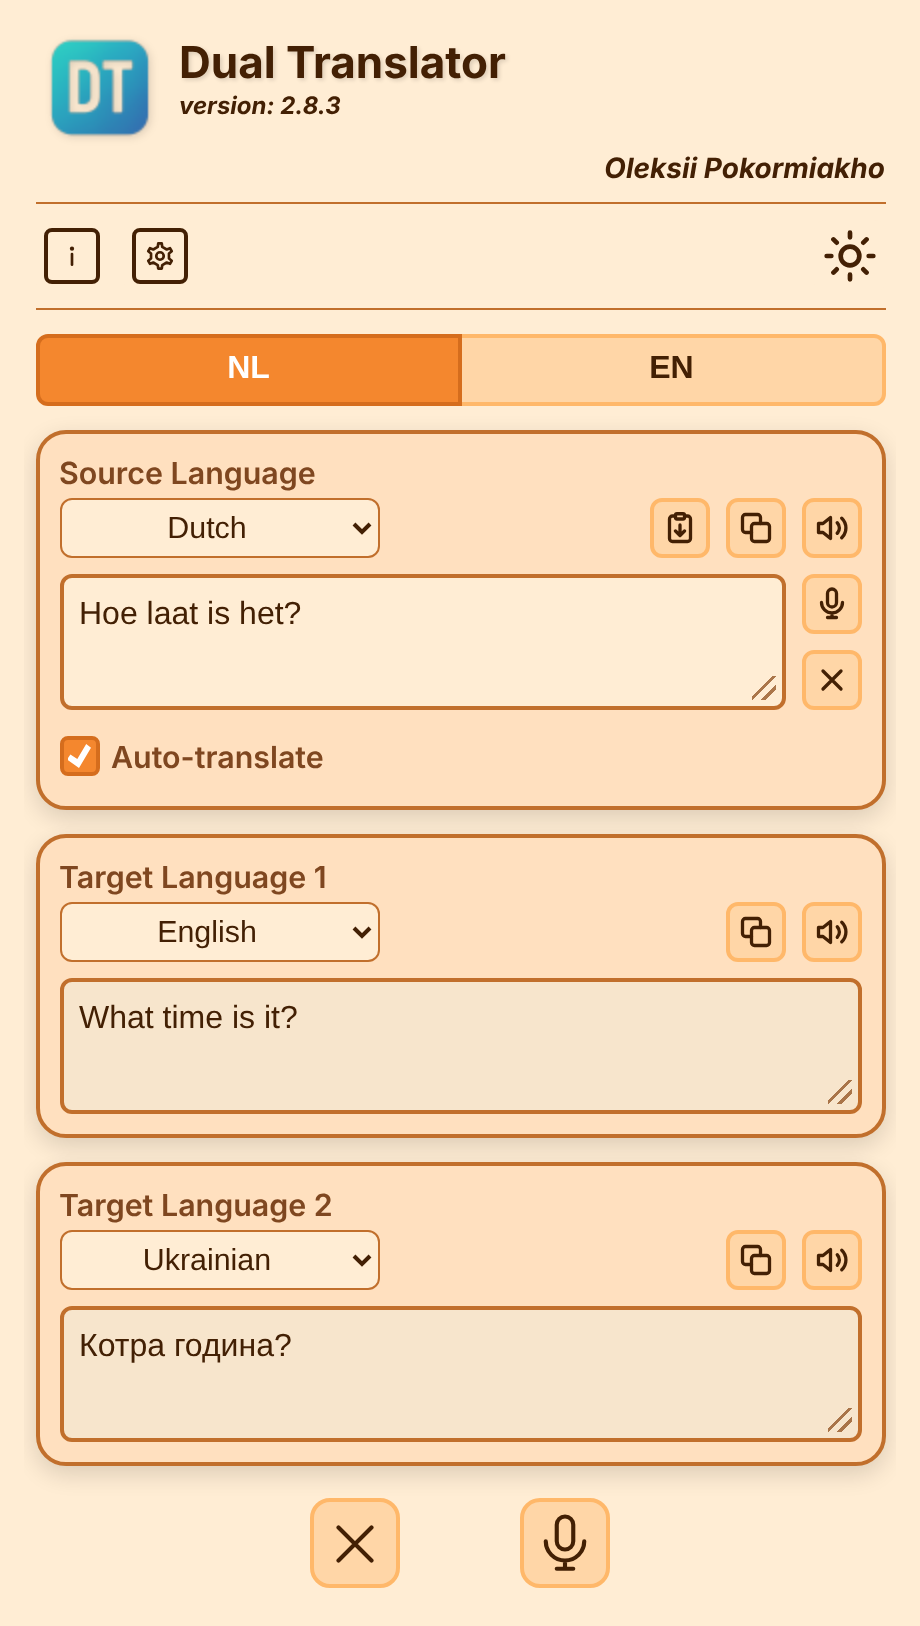
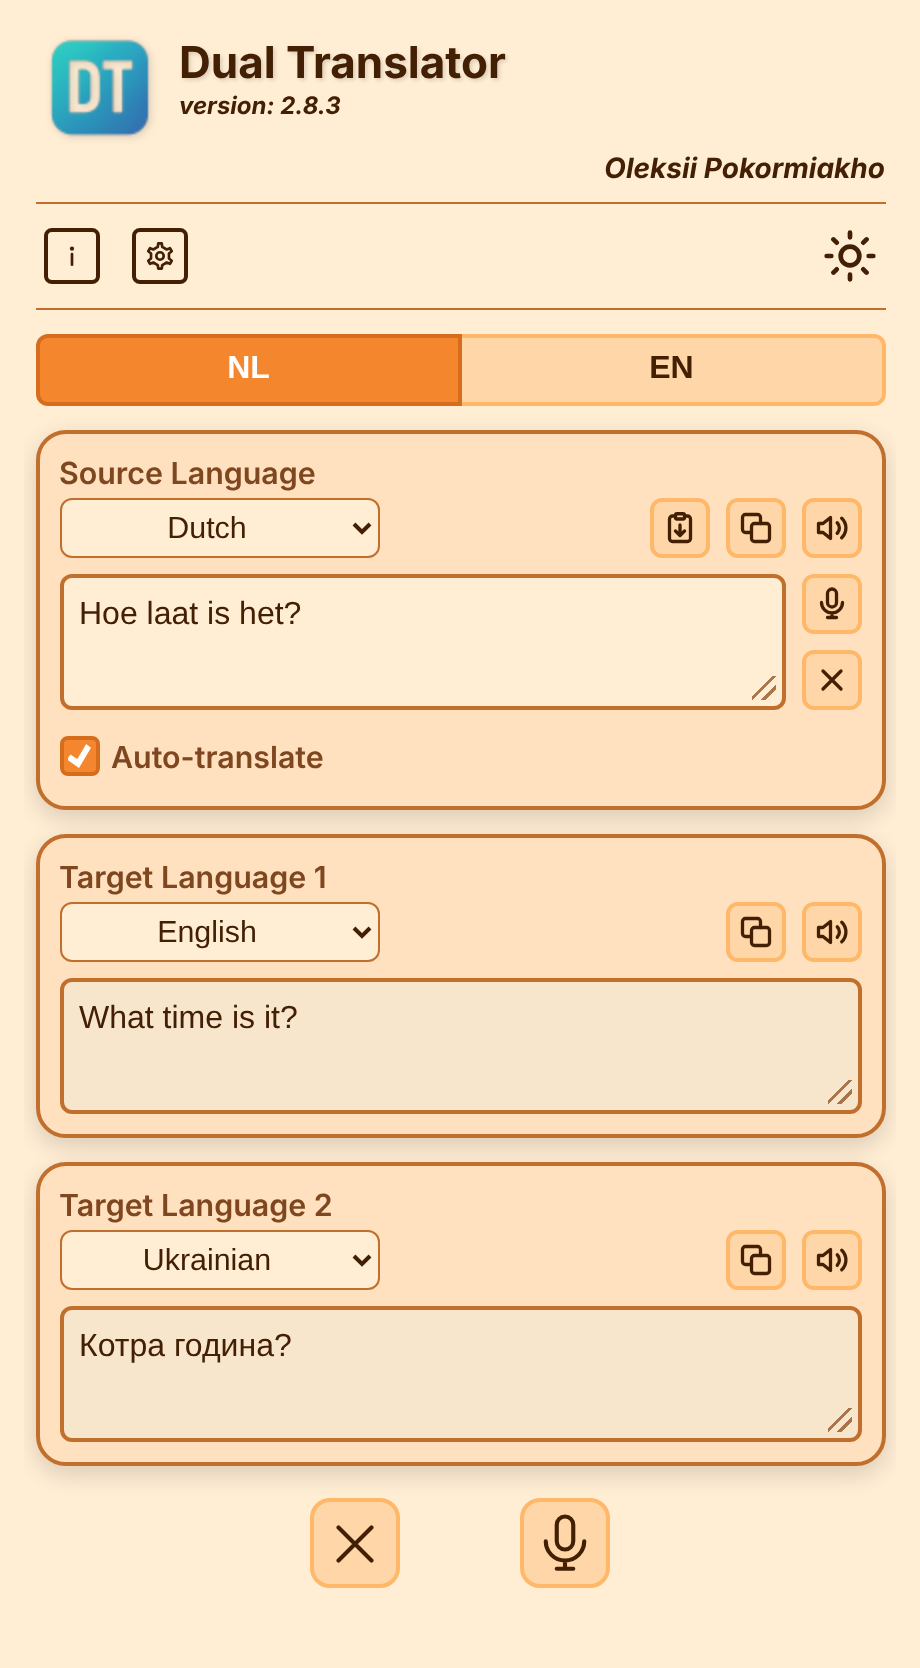
2.8.4

diff --git a/src/js/core/config.js b/src/js/core/config.js
@@ -1,7 +1,7 @@
 // Constants and the default settings (config/config.json).
 
 // Shown on the main screen (change it with every change of the app)
-export const APP_VERSION = "2.8.3";
+export const APP_VERSION = "2.8.4";
 
 // Key of the saved settings in localStorage
 export const STORAGE_KEY = "DT-settings";

diff --git a/docs/readme/README.uk.md b/docs/readme/README.uk.md
@@ -8,7 +8,7 @@
 Це компактний односторінковий застосунок, який перекладає текст одразу двома мовами.  
 Введіть, вставте або надиктуйте текст один раз і читайте, копіюйте чи слухайте обидва переклади поруч.
 
-![Зовнішній вигляд застосунку](img/app.png)
+<img src="img/app.png" alt="Зовнішній вигляд застосунку" width="360">
 
 ## Можливості
 
@@ -22,7 +22,7 @@
 
 У вікні налаштувань є конфігурації (мови й видимі кнопки для кожної вкладки), мова інтерфейсу, тема й режим, а також скидання до типових значень.
 
-![Вікно налаштувань](img/settings.png)
+<img src="img/settings.png" alt="Вікно налаштувань" width="360">
 
 ## Швидкий старт
 

diff --git a/docs/readme/README.ru.md b/docs/readme/README.ru.md
@@ -8,7 +8,7 @@
 Это компактное одностраничное приложение, которое переводит текст сразу на два языка.  
 Введите, вставьте или продиктуйте текст один раз и читайте, копируйте или слушайте оба перевода рядом.
 
-![Внешний вид приложения](img/app.png)
+<img src="img/app.png" alt="Внешний вид приложения" width="360">
 
 ## Возможности
 
@@ -22,7 +22,7 @@
 
 В окне настроек находятся конфигурации (языки и видимые кнопки для каждой вкладки), язык интерфейса, тема и режим, а также сброс к значениям по умолчанию.
 
-![Окно настроек](img/settings.png)
+<img src="img/settings.png" alt="Окно настроек" width="360">
 
 ## Быстрый старт
 

diff --git a/docs/readme/README.it.md b/docs/readme/README.it.md
@@ -8,7 +8,7 @@
 Questa è un'applicazione compatta a pagina singola che traduce il testo in due lingue contemporaneamente.  
 Scrivi, incolla o detta il testo una sola volta e leggi, copia o ascolta entrambe le traduzioni una accanto all'altra.
 
-![Aspetto dell'applicazione](img/app.png)
+<img src="img/app.png" alt="Aspetto dell'applicazione" width="360">
 
 ## Funzionalità
 
@@ -22,7 +22,7 @@ Scrivi, incolla o detta il testo una sola volta e leggi, copia o ascolta entramb
 
 La finestra delle impostazioni contiene le configurazioni (lingue e pulsanti visibili di ogni scheda), la lingua dell’interfaccia, il tema e la modalità e il ripristino dei valori predefiniti.
 
-![Finestra delle impostazioni](img/settings.png)
+<img src="img/settings.png" alt="Finestra delle impostazioni" width="360">
 
 ## Per iniziare
 

diff --git a/docs/readme/README.fr.md b/docs/readme/README.fr.md
@@ -8,7 +8,7 @@
 Il s'agit d'une application compacte d'une seule page qui traduit un texte dans deux langues à la fois.  
 Saisissez, collez ou dictez le texte une seule fois, puis lisez, copiez ou écoutez les deux traductions côte à côte.
 
-![Aperçu de l'application](img/app.png)
+<img src="img/app.png" alt="Aperçu de l'application" width="360">
 
 ## Fonctionnalités
 
@@ -22,7 +22,7 @@ Saisissez, collez ou dictez le texte une seule fois, puis lisez, copiez ou écou
 
 La fenêtre des paramètres contient les configurations (langues et boutons visibles de chaque onglet), la langue de l’interface, le thème et le mode, ainsi que la réinitialisation.
 
-![Fenêtre des paramètres](img/settings.png)
+<img src="img/settings.png" alt="Fenêtre des paramètres" width="360">
 
 ## Pour commencer
 

diff --git a/docs/readme/README.de.md b/docs/readme/README.de.md
@@ -8,7 +8,7 @@
 Dies ist eine kompakte, einseitige Anwendung, die Text gleichzeitig in zwei Sprachen übersetzt.  
 Text einmal eingeben, einfügen oder diktieren – und beide Übersetzungen nebeneinander lesen, kopieren oder anhören.
 
-![Aussehen der Anwendung](img/app.png)
+<img src="img/app.png" alt="Aussehen der Anwendung" width="360">
 
 ## Funktionen
 
@@ -22,7 +22,7 @@ Text einmal eingeben, einfügen oder diktieren – und beide Übersetzungen nebe
 
 Das Einstellungsfenster enthält die Konfigurationen (Sprachen und sichtbare Schaltflächen je Tab), die Oberflächensprache, Thema und Modus sowie das Zurücksetzen auf Standardwerte.
 
-![Einstellungsfenster](img/settings.png)
+<img src="img/settings.png" alt="Einstellungsfenster" width="360">
 
 ## Erste Schritte
 

diff --git a/README.md b/README.md
@@ -8,7 +8,7 @@
 This is a compact, one-page application that translates text into two languages at once.  
 Type, paste or dictate the text once and read, copy or listen to both translations side by side.
 
-![Appearance of the application](docs/readme/img/app.png)
+<img src="docs/readme/img/app.png" alt="Appearance of the application" width="360">
 
 ## Features
 
@@ -22,7 +22,7 @@ Type, paste or dictate the text once and read, copy or listen to both translatio
 
 The settings window holds the configurations (languages and visible buttons for each tab), the interface language, the theme and mode, and a reset to defaults.
 
-![Settings window](docs/readme/img/settings.png)
+<img src="docs/readme/img/settings.png" alt="Settings window" width="360">
 
 ## Getting started
 

diff --git a/docs/readme/README.ar.md b/docs/readme/README.ar.md
@@ -10,7 +10,7 @@
 اكتب النص أو الصقه أو أمله صوتيًا مرة واحدة، ثم اقرأ الترجمتين جنبًا إلى جنب وانسخهما أو استمع إليهما.
 </div>
 
-![مظهر التطبيق](img/app.png)
+<img src="img/app.png" alt="مظهر التطبيق" width="360">
 
 ## المزايا
 
@@ -24,7 +24,7 @@
 
 تضم نافذة الإعدادات التهيئات (اللغات والأزرار الظاهرة لكل علامة تبويب)، ولغة الواجهة، والسمة والوضع، وإعادة الضبط إلى الإعدادات الافتراضية.
 
-![نافذة الإعدادات](img/settings.png)
+<img src="img/settings.png" alt="نافذة الإعدادات" width="360">
 
 ## البدء
 

diff --git a/docs/readme/README.es.md b/docs/readme/README.es.md
@@ -8,7 +8,7 @@
 Esta es una aplicación compacta de una sola página que traduce texto a dos idiomas a la vez.  
 Escribe, pega o dicta el texto una sola vez y lee, copia o escucha ambas traducciones una junto a la otra.
 
-![Aspecto de la aplicación](img/app.png)
+<img src="img/app.png" alt="Aspecto de la aplicación" width="360">
 
 ## Características
 
@@ -22,7 +22,7 @@ Escribe, pega o dicta el texto una sola vez y lee, copia o escucha ambas traducc
 
 La ventana de ajustes incluye las configuraciones (idiomas y botones visibles de cada pestaña), el idioma de la interfaz, el tema y el modo, y el restablecimiento de valores.
 
-![Ventana de ajustes](img/settings.png)
+<img src="img/settings.png" alt="Ventana de ajustes" width="360">
 
 ## Primeros pasos
 

diff --git a/docs/readme/README.nl.md b/docs/readme/README.nl.md
@@ -8,7 +8,7 @@
 Dit is een compacte applicatie op één pagina die tekst tegelijk in twee talen vertaalt.  
 Typ, plak of dicteer de tekst één keer en lees, kopieer of beluister beide vertalingen naast elkaar.
 
-![Uiterlijk van de applicatie](img/app.png)
+<img src="img/app.png" alt="Uiterlijk van de applicatie" width="360">
 
 ## Functies
 
@@ -22,7 +22,7 @@ Typ, plak of dicteer de tekst één keer en lees, kopieer of beluister beide ver
 
 Het instellingenvenster bevat de configuraties (talen en zichtbare knoppen per tab), de interfacetaal, het thema en de modus, en terugzetten naar de standaardwaarden.
 
-![Instellingenvenster](img/settings.png)
+<img src="img/settings.png" alt="Instellingenvenster" width="360">
 
 ## Aan de slag
 

diff --git a/docs/readme/README.en.md b/docs/readme/README.en.md
@@ -8,7 +8,7 @@
 This is a compact, one-page application that translates text into two languages at once.  
 Type, paste or dictate the text once and read, copy or listen to both translations side by side.
 
-![Appearance of the application](img/app.png)
+<img src="img/app.png" alt="Appearance of the application" width="360">
 
 ## Features
 
@@ -22,7 +22,7 @@ Type, paste or dictate the text once and read, copy or listen to both translatio
 
 The settings window holds the configurations (languages and visible buttons for each tab), the interface language, the theme and mode, and a reset to defaults.
 
-![Settings window](img/settings.png)
+<img src="img/settings.png" alt="Settings window" width="360">
 
 ## Getting started
 
